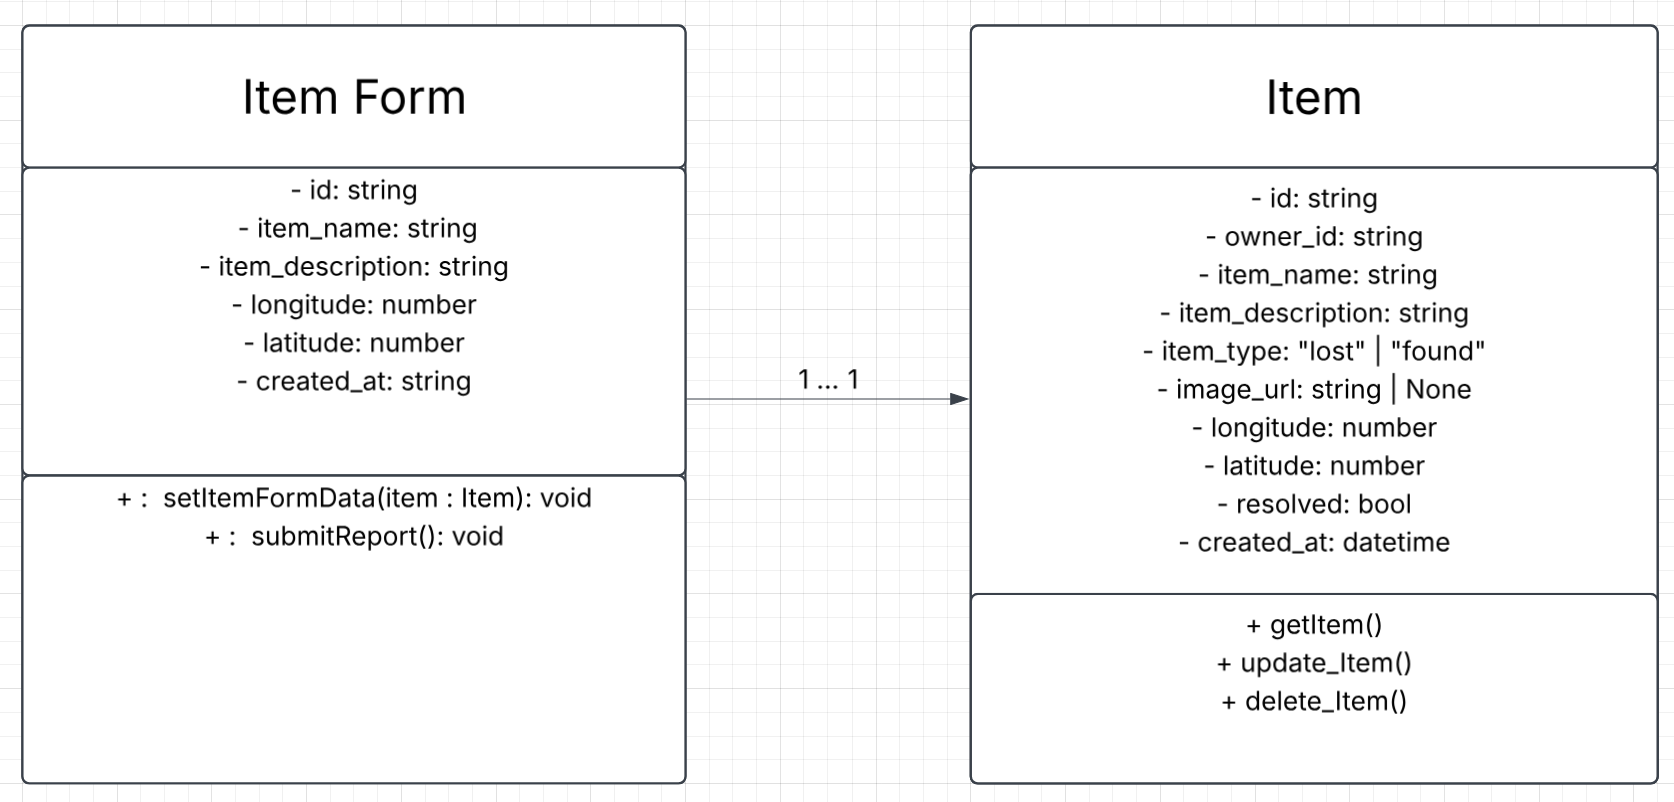
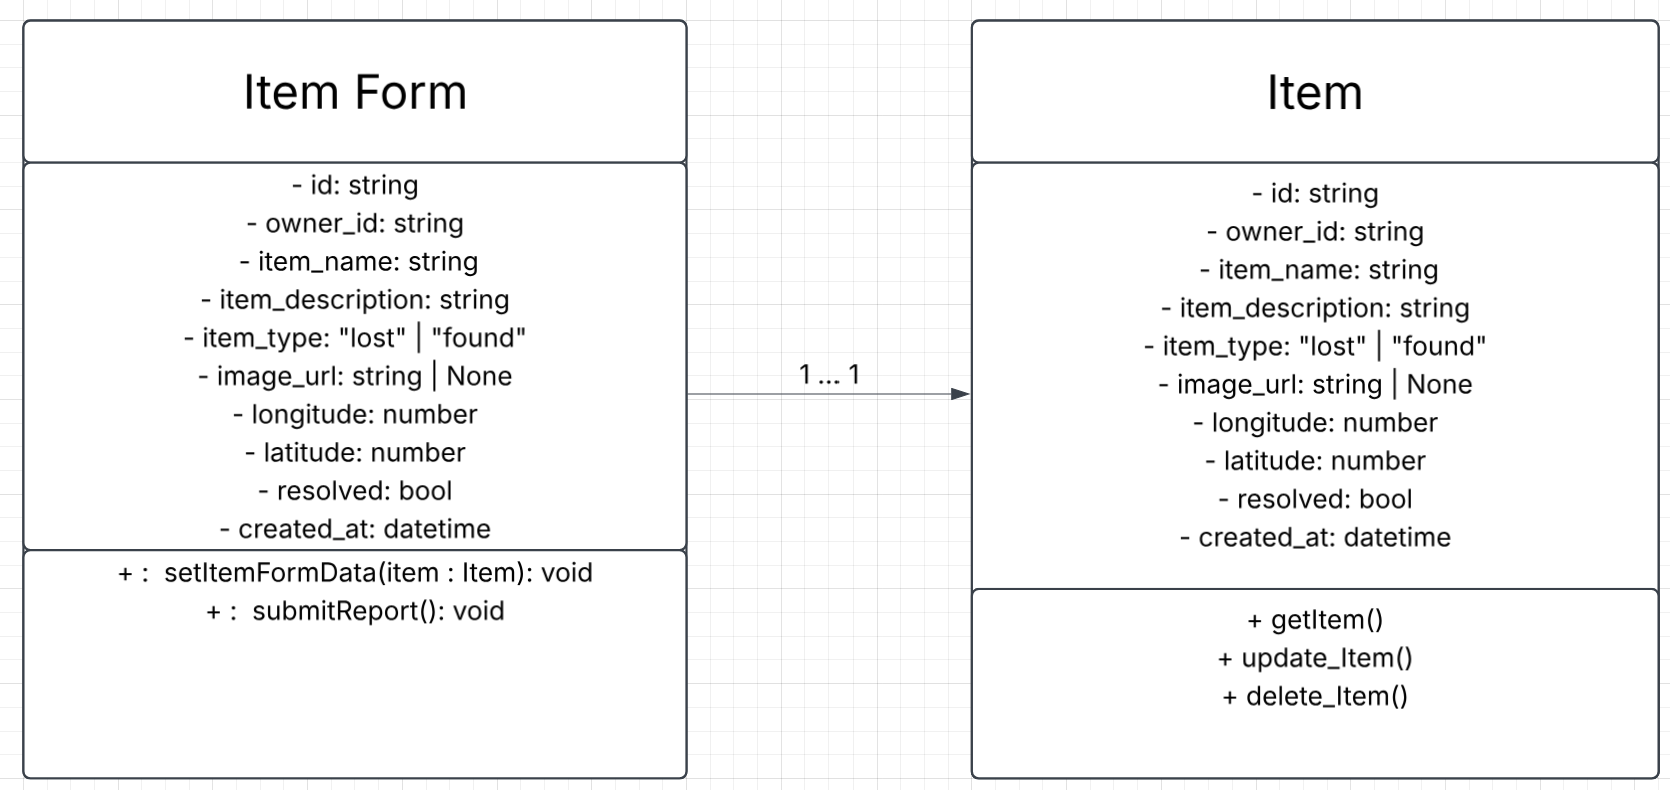
class stubs added

Changed region(s): [[0.0, 0.0, 0.9964, 1.0], [0.1246, 0.0911, 0.2802, 0.1519], [0.7473, 0.0911, 0.8407, 0.1519]]

diff --git a/src/lib/class-stub/ItemForm.ts b/src/lib/class-stub/ItemForm.ts
@@ -1,0 +1,34 @@
+import { Item } from "../types";
+
+/**
+ * ItemForm: lets the user create a new report for their missing item
+ */
+class ItemForm {
+    private currentUserId!: string;
+    private itemName!: string;
+    private itemDescription!: string;
+    private itemType!: "lost" | "found";
+    private imageURL!: string;
+    private itemResolved!: boolean;
+    private itemLongitude!: number;
+    private itemLatitude!: number;
+    private dateReported!: Date;
+
+
+    /**
+     * The user enters the information of their lost item
+     * @return True if the item information is valid
+     */
+    public setItemFormData(itemName: string, itemDescription: string, itemType: "lost" | "found", itemResolved: boolean, itemLongitude: number, itemLatitude: number): boolean {
+        throw new Error("Not implemented")
+    }   
+
+    /**
+     * The user submits the item report
+     * @return void
+     */
+    public submitReport(): void {
+        throw new Error("Not implemented")
+    }
+
+}
